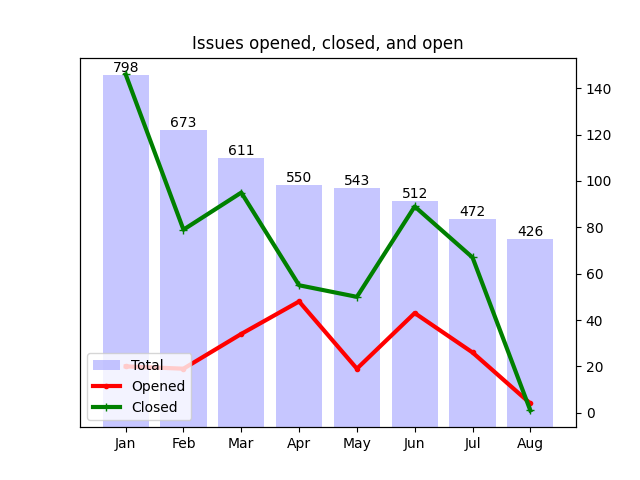
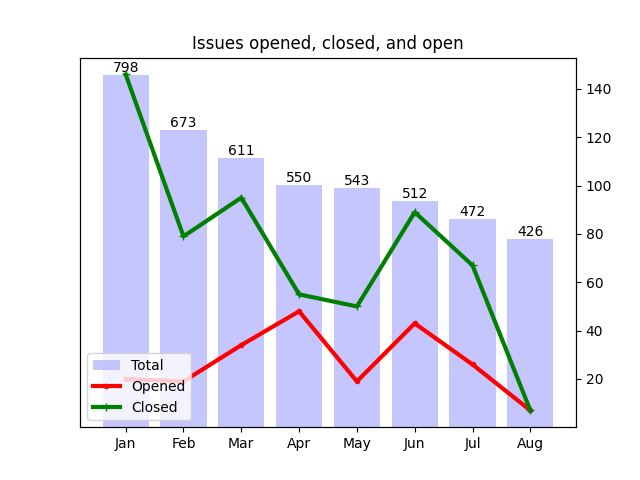
Apply automatic changes

diff --git a/docs/analytics.html b/docs/analytics.html
@@ -104,8 +104,8 @@ td .material-icons { display:inline-flex; vertical-align: top; font-size:1.1rem;
 						</tr>
 						<tr>
 							<td>Aug</td>
-							<td>4</td>
-							<td>1</td>
+							<td>7</td>
+							<td>7</td>
 						</tr>
 					</table>
 				</div>
@@ -137,13 +137,13 @@ td .material-icons { display:inline-flex; vertical-align: top; font-size:1.1rem;
 							<td>
 								<a href="http://github.com/notofonts/arabic/issues">arabic</a>
 							</td>
-							<td>21</td>
+							<td>22</td>
 						</tr>
 						<tr>
 							<td>
 								<a href="http://github.com/notofonts/nastaliq/issues">nastaliq</a>
 							</td>
-							<td>14</td>
+							<td>15</td>
 						</tr>
 						<tr>
 							<td>
@@ -196,7 +196,7 @@ td .material-icons { display:inline-flex; vertical-align: top; font-size:1.1rem;
 				<tr>
 					<td>1</td>
 					<td>
-						<a href="http://github.com/notofonts/bamum/issues">bamum</a>,  						<a href="http://github.com/notofonts/brahmi/issues">brahmi</a>,  						<a href="http://github.com/notofonts/canadian-aboriginal/issues">canadian-aboriginal</a>,  						<a href="http://github.com/notofonts/cham/issues">cham</a>,  						<a href="http://github.com/notofonts/coptic/issues">coptic</a>,  						<a href="http://github.com/notofonts/deseret/issues">deseret</a>,  						<a href="http://github.com/notofonts/dogra/issues">dogra</a>,  						<a href="http://github.com/notofonts/duployan/issues">duployan</a>,  						<a href="http://github.com/notofonts/elbasan/issues">elbasan</a>,  						<a href="http://github.com/notofonts/elymaic/issues">elymaic</a>,  						<a href="http://github.com/notofonts/georgian/issues">georgian</a>,  						<a href="http://github.com/notofonts/glagolitic/issues">glagolitic</a>,  						<a href="http://github.com/notofonts/gunjala-gondi/issues">gunjala-gondi</a>,  						<a href="http://github.com/notofonts/hanunoo/issues">hanunoo</a>,  						<a href="http://github.com/notofonts/kharoshthi/issues">kharoshthi</a>,  						<a href="http://github.com/notofonts/khmer/issues">khmer</a>,  						<a href="http://github.com/notofonts/khudawadi/issues">khudawadi</a>,  						<a href="http://github.com/notofonts/lydian/issues">lydian</a>,  						<a href="http://github.com/notofonts/manichaean/issues">manichaean</a>,  						<a href="http://github.com/notofonts/meetei-mayek/issues">meetei-mayek</a>,  						<a href="http://github.com/notofonts/meroitic/issues">meroitic</a>,  						<a href="http://github.com/notofonts/miao/issues">miao</a>,  						<a href="http://github.com/notofonts/multani/issues">multani</a>,  						<a href="http://github.com/notofonts/nko/issues">nko</a>,  						<a href="http://github.com/notofonts/old-hungarian-ui/issues">old-hungarian-ui</a>,  						<a href="http://github.com/notofonts/old-italic/issues">old-italic</a>,  						<a href="http://github.com/notofonts/pahawh-hmong/issues">pahawh-hmong</a>,  						<a href="http://github.com/notofonts/rejang/issues">rejang</a>,  						<a href="http://github.com/notofonts/saurashtra/issues">saurashtra</a>,  						<a href="http://github.com/notofonts/sign-writing/issues">sign-writing</a>,  						<a href="http://github.com/notofonts/sogdian/issues">sogdian</a>,  						<a href="http://github.com/notofonts/tai-le/issues">tai-le</a>,  						<a href="http://github.com/notofonts/tai-tham/issues">tai-tham</a>,  						<a href="http://github.com/notofonts/takri/issues">takri</a>,  						<a href="http://github.com/notofonts/tangsa/issues">tangsa</a>,  						<a href="http://github.com/notofonts/thai/issues">thai</a> 
+						<a href="http://github.com/notofonts/bamum/issues">bamum</a>,  						<a href="http://github.com/notofonts/brahmi/issues">brahmi</a>,  						<a href="http://github.com/notofonts/canadian-aboriginal/issues">canadian-aboriginal</a>,  						<a href="http://github.com/notofonts/cham/issues">cham</a>,  						<a href="http://github.com/notofonts/coptic/issues">coptic</a>,  						<a href="http://github.com/notofonts/deseret/issues">deseret</a>,  						<a href="http://github.com/notofonts/dogra/issues">dogra</a>,  						<a href="http://github.com/notofonts/duployan/issues">duployan</a>,  						<a href="http://github.com/notofonts/elbasan/issues">elbasan</a>,  						<a href="http://github.com/notofonts/georgian/issues">georgian</a>,  						<a href="http://github.com/notofonts/glagolitic/issues">glagolitic</a>,  						<a href="http://github.com/notofonts/gunjala-gondi/issues">gunjala-gondi</a>,  						<a href="http://github.com/notofonts/hanunoo/issues">hanunoo</a>,  						<a href="http://github.com/notofonts/kharoshthi/issues">kharoshthi</a>,  						<a href="http://github.com/notofonts/khmer/issues">khmer</a>,  						<a href="http://github.com/notofonts/khojki/issues">khojki</a>,  						<a href="http://github.com/notofonts/khudawadi/issues">khudawadi</a>,  						<a href="http://github.com/notofonts/lydian/issues">lydian</a>,  						<a href="http://github.com/notofonts/manichaean/issues">manichaean</a>,  						<a href="http://github.com/notofonts/meetei-mayek/issues">meetei-mayek</a>,  						<a href="http://github.com/notofonts/meroitic/issues">meroitic</a>,  						<a href="http://github.com/notofonts/miao/issues">miao</a>,  						<a href="http://github.com/notofonts/multani/issues">multani</a>,  						<a href="http://github.com/notofonts/nko/issues">nko</a>,  						<a href="http://github.com/notofonts/old-hungarian-ui/issues">old-hungarian-ui</a>,  						<a href="http://github.com/notofonts/old-italic/issues">old-italic</a>,  						<a href="http://github.com/notofonts/pahawh-hmong/issues">pahawh-hmong</a>,  						<a href="http://github.com/notofonts/rejang/issues">rejang</a>,  						<a href="http://github.com/notofonts/saurashtra/issues">saurashtra</a>,  						<a href="http://github.com/notofonts/sign-writing/issues">sign-writing</a>,  						<a href="http://github.com/notofonts/sogdian/issues">sogdian</a>,  						<a href="http://github.com/notofonts/tai-le/issues">tai-le</a>,  						<a href="http://github.com/notofonts/tai-tham/issues">tai-tham</a>,  						<a href="http://github.com/notofonts/takri/issues">takri</a>,  						<a href="http://github.com/notofonts/tangsa/issues">tangsa</a>,  						<a href="http://github.com/notofonts/thai/issues">thai</a> 
 					</td>
 				</tr>
 				<tr>
@@ -220,7 +220,7 @@ td .material-icons { display:inline-flex; vertical-align: top; font-size:1.1rem;
 				<tr>
 					<td>5</td>
 					<td>
-						<a href="http://github.com/notofonts/bengali/issues">bengali</a>,  						<a href="http://github.com/notofonts/bhaiksuki/issues">bhaiksuki</a>,  						<a href="http://github.com/notofonts/gurmukhi/issues">gurmukhi</a>,  						<a href="http://github.com/notofonts/khojki/issues">khojki</a>,  						<a href="http://github.com/notofonts/syloti-nagri/issues">syloti-nagri</a> 
+						<a href="http://github.com/notofonts/bengali/issues">bengali</a>,  						<a href="http://github.com/notofonts/bhaiksuki/issues">bhaiksuki</a>,  						<a href="http://github.com/notofonts/gurmukhi/issues">gurmukhi</a>,  						<a href="http://github.com/notofonts/syloti-nagri/issues">syloti-nagri</a> 
 					</td>
 				</tr>
 				<tr>
@@ -267,9 +267,9 @@ td .material-icons { display:inline-flex; vertical-align: top; font-size:1.1rem;
 							<td>
 									<a href="http://github.com/notofonts/latin-greek-cyrillic/issues">latin-greek-cyrillic</a>: 125, 
 
-									<a href="http://github.com/notofonts/arabic/issues">arabic</a>: 21, 
+									<a href="http://github.com/notofonts/arabic/issues">arabic</a>: 22, 
 
-									<a href="http://github.com/notofonts/nastaliq/issues">nastaliq</a>: 14, 
+									<a href="http://github.com/notofonts/nastaliq/issues">nastaliq</a>: 15, 
 
 									<a href="http://github.com/notofonts/gujarati/issues">gujarati</a>: 13, 
 
@@ -317,8 +317,6 @@ td .material-icons { display:inline-flex; vertical-align: top; font-size:1.1rem;
 
 									<a href="http://github.com/notofonts/symbols/issues">symbols</a>: 6, 
 
-									<a href="http://github.com/notofonts/khojki/issues">khojki</a>: 5, 
-
 									<a href="http://github.com/notofonts/syloti-nagri/issues">syloti-nagri</a>: 5, 
 
 									<a href="http://github.com/notofonts/batak/issues">batak</a>: 4, 
@@ -356,6 +354,8 @@ td .material-icons { display:inline-flex; vertical-align: top; font-size:1.1rem;
 									<a href="http://github.com/notofonts/gunjala-gondi/issues">gunjala-gondi</a>: 1, 
 
 									<a href="http://github.com/notofonts/hanunoo/issues">hanunoo</a>: 1, 
+
+									<a href="http://github.com/notofonts/khojki/issues">khojki</a>: 1, 
 
 									<a href="http://github.com/notofonts/meetei-mayek/issues">meetei-mayek</a>: 1, 
 
@@ -432,8 +432,6 @@ td .material-icons { display:inline-flex; vertical-align: top; font-size:1.1rem;
 									<a href="http://github.com/notofonts/old-turkic/issues">old-turkic</a>: 2, 
 
 									<a href="http://github.com/notofonts/elbasan/issues">elbasan</a>: 1, 
-
-									<a href="http://github.com/notofonts/elymaic/issues">elymaic</a>: 1, 
 
 									<a href="http://github.com/notofonts/kharoshthi/issues">kharoshthi</a>: 1, 
 
